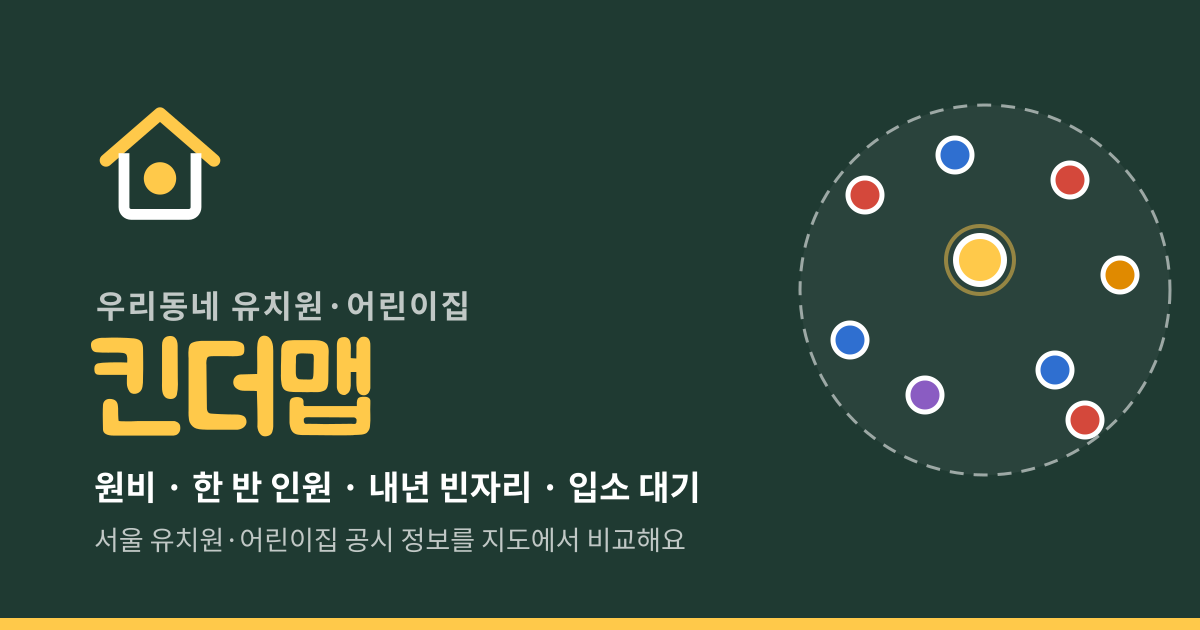
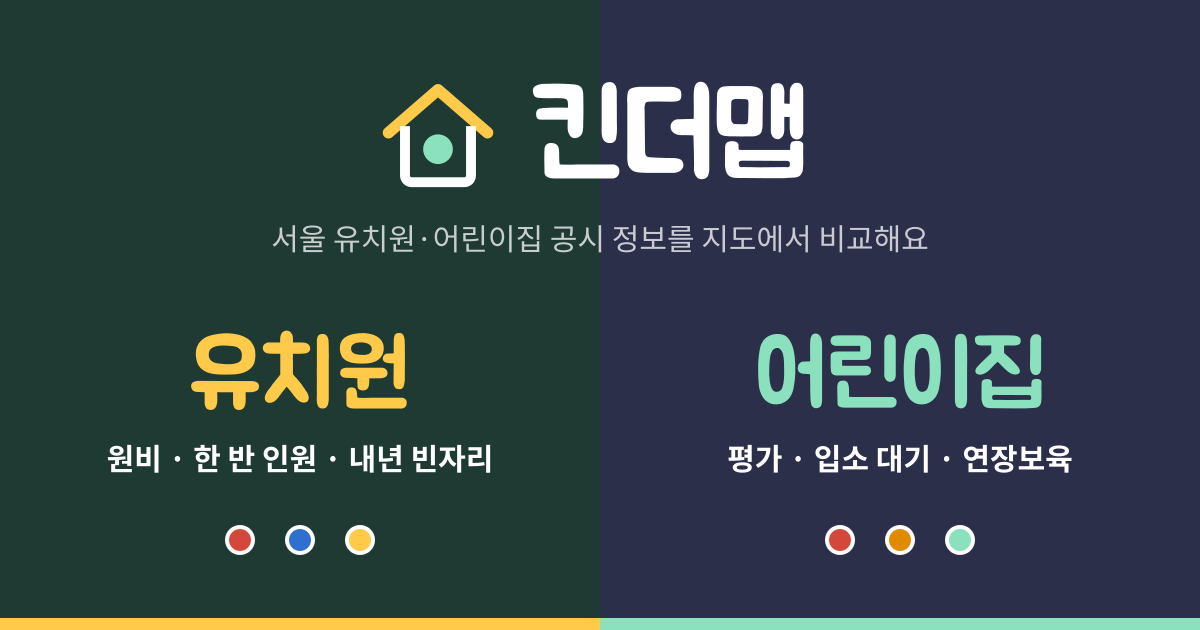
어린이집 주소 kindermap.kr/dc/ + 메인 썸네일 반반
- dc/: 어린이집 테마 미리보기(og-dc.png) 후 ../?m=dc → 어린이집 모드로 시작, 주소창은 dc/로 유지
- 어린이집 모드에선 주소창이 dc/ (주소 복사·사파리 공유도 어린이집 미리보기)
- og.png: 유치원(초록)·어린이집(남색) 반반

Claude-Session: https://claude.ai/code/session_01UAJdJvFt5FzVZQgwu8semW

diff --git a/index.html b/index.html
@@ -10,7 +10,7 @@
 <meta property="og:title" content="킨더맵 — 서울 유치원·어린이집 원비·빈자리 비교 지도">
 <meta property="og:description" content="원비, 한 반 인원, 내년 예상 빈자리, 입소 대기를 지도에서 비교해요.">
 <meta property="og:url" content="https://kindermap.kr/">
-<meta property="og:image" content="https://kindermap.kr/og.png?v=78f57ed3">
+<meta property="og:image" content="https://kindermap.kr/og.png?v=4bd79289">
 <meta property="og:image:width" content="1200"><meta property="og:image:height" content="630">
 <meta name="twitter:card" content="summary_large_image">
 <!-- 카카오 지도 SDK는 큰 데이터 스크립트를 읽는 동안 미리 받아 둔다(아래 스크립트가 같은 주소로 실행) -->
@@ -876,7 +876,12 @@ const km = (a, b, c, d) => {
 };
 
 const S = { lat: null, lng: null, sel: null, cmp: {} };
-let MODE = (() => { try { return localStorage.getItem('kg-mode') === 'dc' ? 'dc' : 'kg'; } catch (e) { return 'kg'; } })();
+// 모드: 주소의 ?m=dc|kg(어린이집 주소 dc/가 ../?m=dc로 넘김) > 마지막으로 본 모드 > 유치원
+let MODE = (() => {
+  const q = new URLSearchParams(location.search).get('m');
+  if (q === 'dc' || q === 'kg') { try { localStorage.setItem('kg-mode', q); } catch (e) {} return q; }
+  try { return localStorage.getItem('kg-mode') === 'dc' ? 'dc' : 'kg'; } catch (e) { return 'kg'; }
+})();
 // 어린이집 모드로 시작하면 카카오 지도를 받는 동안 dc.json도 같이 받기 시작(start()가 같은 요청을 이어 씀)
 if (MODE === 'dc' || location.hash.startsWith('#kc')) loadDC().catch(() => {});
 const cur = () => (MODE === 'dc' ? DROWS : ROWS);
@@ -1238,7 +1243,8 @@ async function start() {
   // 그 주소로 다시 들어오면 s/ 페이지가 바로 지도 상세(#k{id})로 넘겨 줌. 해시(#k…)는 그대로 두므로 화면 이동 방식은 같음
   function syncPath() {
     const m = /^#k(c?[\w]+)$/.exec(location.hash);
-    const want = (m && byId(m[1]) && !NOSHARE.has(m[1]) ? at(`s/${m[1]}.html`) : ROOT) + location.hash;
+    // 상세가 아니면 어린이집 모드는 dc/(어린이집 미리보기), 유치원은 맨 앞 주소
+    const want = (m && byId(m[1]) && !NOSHARE.has(m[1]) ? at(`s/${m[1]}.html`) : MODE === 'dc' ? at('dc/') : ROOT) + location.hash;
     if (location.href !== want) { try { history.replaceState(history.state, '', want); } catch (e) {} }
   }
   // 주소창 경로를 바꾸므로(syncPath) 뒤로 가기 때 hashchange 없이 popstate만 오기도 함 → 둘 다 받고, 같은 주소면 한 번만
@@ -1262,6 +1268,7 @@ async function start() {
     S.sel = null;
     fillSelects();
     if (!quiet && location.hash) location.hash = '';
+    syncPath();
     render(true);
   }
   document.querySelectorAll('.mode button').forEach((b) => b.addEventListener('click', () => setMode(b.dataset.mode)));

diff --git a/src/template.html b/src/template.html
@@ -876,7 +876,12 @@ const km = (a, b, c, d) => {
 };
 
 const S = { lat: null, lng: null, sel: null, cmp: {} };
-let MODE = (() => { try { return localStorage.getItem('kg-mode') === 'dc' ? 'dc' : 'kg'; } catch (e) { return 'kg'; } })();
+// 모드: 주소의 ?m=dc|kg(어린이집 주소 dc/가 ../?m=dc로 넘김) > 마지막으로 본 모드 > 유치원
+let MODE = (() => {
+  const q = new URLSearchParams(location.search).get('m');
+  if (q === 'dc' || q === 'kg') { try { localStorage.setItem('kg-mode', q); } catch (e) {} return q; }
+  try { return localStorage.getItem('kg-mode') === 'dc' ? 'dc' : 'kg'; } catch (e) { return 'kg'; }
+})();
 // 어린이집 모드로 시작하면 카카오 지도를 받는 동안 dc.json도 같이 받기 시작(start()가 같은 요청을 이어 씀)
 if (MODE === 'dc' || location.hash.startsWith('#kc')) loadDC().catch(() => {});
 const cur = () => (MODE === 'dc' ? DROWS : ROWS);
@@ -1238,7 +1243,8 @@ async function start() {
   // 그 주소로 다시 들어오면 s/ 페이지가 바로 지도 상세(#k{id})로 넘겨 줌. 해시(#k…)는 그대로 두므로 화면 이동 방식은 같음
   function syncPath() {
     const m = /^#k(c?[\w]+)$/.exec(location.hash);
-    const want = (m && byId(m[1]) && !NOSHARE.has(m[1]) ? at(`s/${m[1]}.html`) : ROOT) + location.hash;
+    // 상세가 아니면 어린이집 모드는 dc/(어린이집 미리보기), 유치원은 맨 앞 주소
+    const want = (m && byId(m[1]) && !NOSHARE.has(m[1]) ? at(`s/${m[1]}.html`) : MODE === 'dc' ? at('dc/') : ROOT) + location.hash;
     if (location.href !== want) { try { history.replaceState(history.state, '', want); } catch (e) {} }
   }
   // 주소창 경로를 바꾸므로(syncPath) 뒤로 가기 때 hashchange 없이 popstate만 오기도 함 → 둘 다 받고, 같은 주소면 한 번만
@@ -1262,6 +1268,7 @@ async function start() {
     S.sel = null;
     fillSelects();
     if (!quiet && location.hash) location.hash = '';
+    syncPath();
     render(true);
   }
   document.querySelectorAll('.mode button').forEach((b) => b.addEventListener('click', () => setMode(b.dataset.mode)));

diff --git a/dc/index.html b/dc/index.html
@@ -1,0 +1,17 @@
+<!doctype html>
+<html lang="ko"><head><meta charset="utf-8">
+<meta name="viewport" content="width=device-width,initial-scale=1">
+<title>킨더맵 — 우리동네 어린이집 지도</title>
+<meta name="description" content="서울 어린이집의 평가, 입소 대기, 연장보육, 선생님 근속을 지도에서 한눈에 비교해요. 어린이집정보공개포털 공시 자료 기준.">
+<link rel="canonical" href="https://kindermap.kr/dc/">
+<link rel="icon" href="../favicon.svg" type="image/svg+xml"><link rel="apple-touch-icon" href="../apple-touch-icon.png">
+<meta property="og:type" content="website">
+<meta property="og:site_name" content="킨더맵">
+<meta property="og:title" content="킨더맵 — 서울 어린이집 평가·입소 대기 비교 지도">
+<meta property="og:description" content="평가, 입소 대기, 연장보육, 선생님 근속을 지도에서 비교해요.">
+<meta property="og:url" content="https://kindermap.kr/dc/">
+<meta property="og:image" content="https://kindermap.kr/og-dc.png?v=74871ec1">
+<meta property="og:image:width" content="1200"><meta property="og:image:height" content="630">
+<meta name="twitter:card" content="summary_large_image">
+<script>location.replace('../?m=dc' + location.hash)</script>
+</head><body><p><a href="../?m=dc">킨더맵 어린이집 지도 열기</a></p></body></html>

diff --git a/src/build.py b/src/build.py
@@ -122,6 +122,27 @@ meta = json.dumps({'kg_pb': kgm.get('pb'), 'kg_t': kgm.get('t'), 'det': dts[-1] 
                    'dc_t': dcm.get('t'), 'ptl': [ptl[0], ptl[-1]] if ptl else None}, ensure_ascii=False)
 # og.png가 바뀌면 이미지 주소도 바뀌게(카톡은 이미지를 주소 기준으로 캐시)
 og_v = hashlib.md5(open(os.path.join(d, '..', 'og.png'), 'rb').read()).hexdigest()[:8]
+# 어린이집 첫 화면 주소 dc/ — 카톡 미리보기는 어린이집 테마(og-dc.png), 사람이 열면 ../?m=dc 로 넘김(지도는 주소창을 다시 dc/로 바꿔 둠)
+og_dc_v = hashlib.md5(open(os.path.join(d, '..', 'og-dc.png'), 'rb').read()).hexdigest()[:8]
+os.makedirs(os.path.join(d, '..', 'dc'), exist_ok=True)
+open(os.path.join(d, '..', 'dc', 'index.html'), 'w', encoding='utf-8').write(f'''<!doctype html>
+<html lang="ko"><head><meta charset="utf-8">
+<meta name="viewport" content="width=device-width,initial-scale=1">
+<title>킨더맵 — 우리동네 어린이집 지도</title>
+<meta name="description" content="서울 어린이집의 평가, 입소 대기, 연장보육, 선생님 근속을 지도에서 한눈에 비교해요. 어린이집정보공개포털 공시 자료 기준.">
+<link rel="canonical" href="https://kindermap.kr/dc/">
+<link rel="icon" href="../favicon.svg" type="image/svg+xml"><link rel="apple-touch-icon" href="../apple-touch-icon.png">
+<meta property="og:type" content="website">
+<meta property="og:site_name" content="킨더맵">
+<meta property="og:title" content="킨더맵 — 서울 어린이집 평가·입소 대기 비교 지도">
+<meta property="og:description" content="평가, 입소 대기, 연장보육, 선생님 근속을 지도에서 비교해요.">
+<meta property="og:url" content="https://kindermap.kr/dc/">
+<meta property="og:image" content="https://kindermap.kr/og-dc.png?v={og_dc_v}">
+<meta property="og:image:width" content="1200"><meta property="og:image:height" content="630">
+<meta name="twitter:card" content="summary_large_image">
+<script>location.replace('../?m=dc' + location.hash)</script>
+</head><body><p><a href="../?m=dc">킨더맵 어린이집 지도 열기</a></p></body></html>
+''')
 h = (r('template.html').replace('%%OG_V%%', og_v).replace('%%NOSHARE%%', json.dumps(noshare)).replace('%%SHARE_V%%', share_v).replace('%%DATA%%', r('data/kg_seoul.json.txt'))
      .replace('%%COST%%', cost_json).replace('%%SP_V%%', sp_v).replace('%%META%%', meta).replace('%%DC_URL%%', f'dc.json?v={ver}')
      .replace('%%RCRT%%', r('data/kg_rcrt.json')).replace('%%DET%%', det).replace('%%EV_V%%', ev_v))
